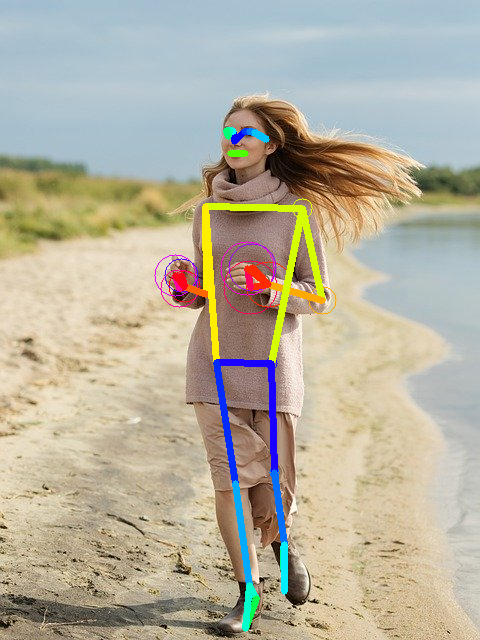
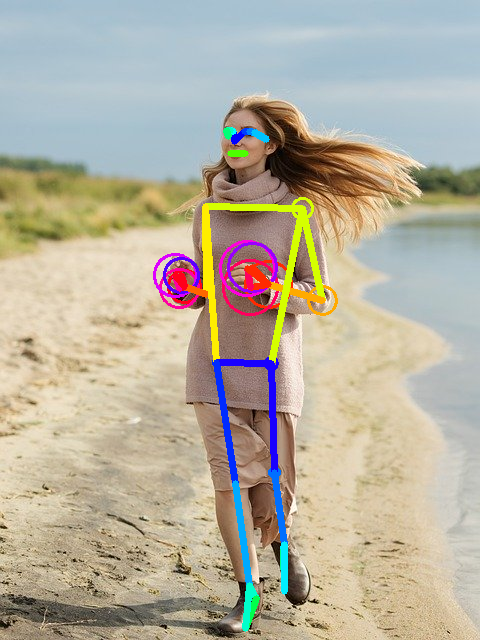
Change thickness

Changed region(s): [[0.3125, 0.375, 0.5938, 0.5], [0.625, 0.4688, 0.7188, 0.5], [0.5938, 0.3125, 0.6562, 0.3438]]

diff --git a/pose_estimation/blazepose-fullbody/blazepose-fullbody.py b/pose_estimation/blazepose-fullbody/blazepose-fullbody.py
@@ -177,7 +177,7 @@ def circle(input_img, landmarks, flags):
 
                x1 = int(landmark[point1, 0])
                y1 = int(landmark[point1, 1])
-               cv2.circle(input_img, (x1, y1), line_width, color, thickness=1, lineType=cv2.LINE_8, shift=0)
+               cv2.circle(input_img, (x1, y1), line_width, color, thickness=2, lineType=cv2.LINE_8, shift=0)
 
 
 def display_result(img, landmarks, flags):
